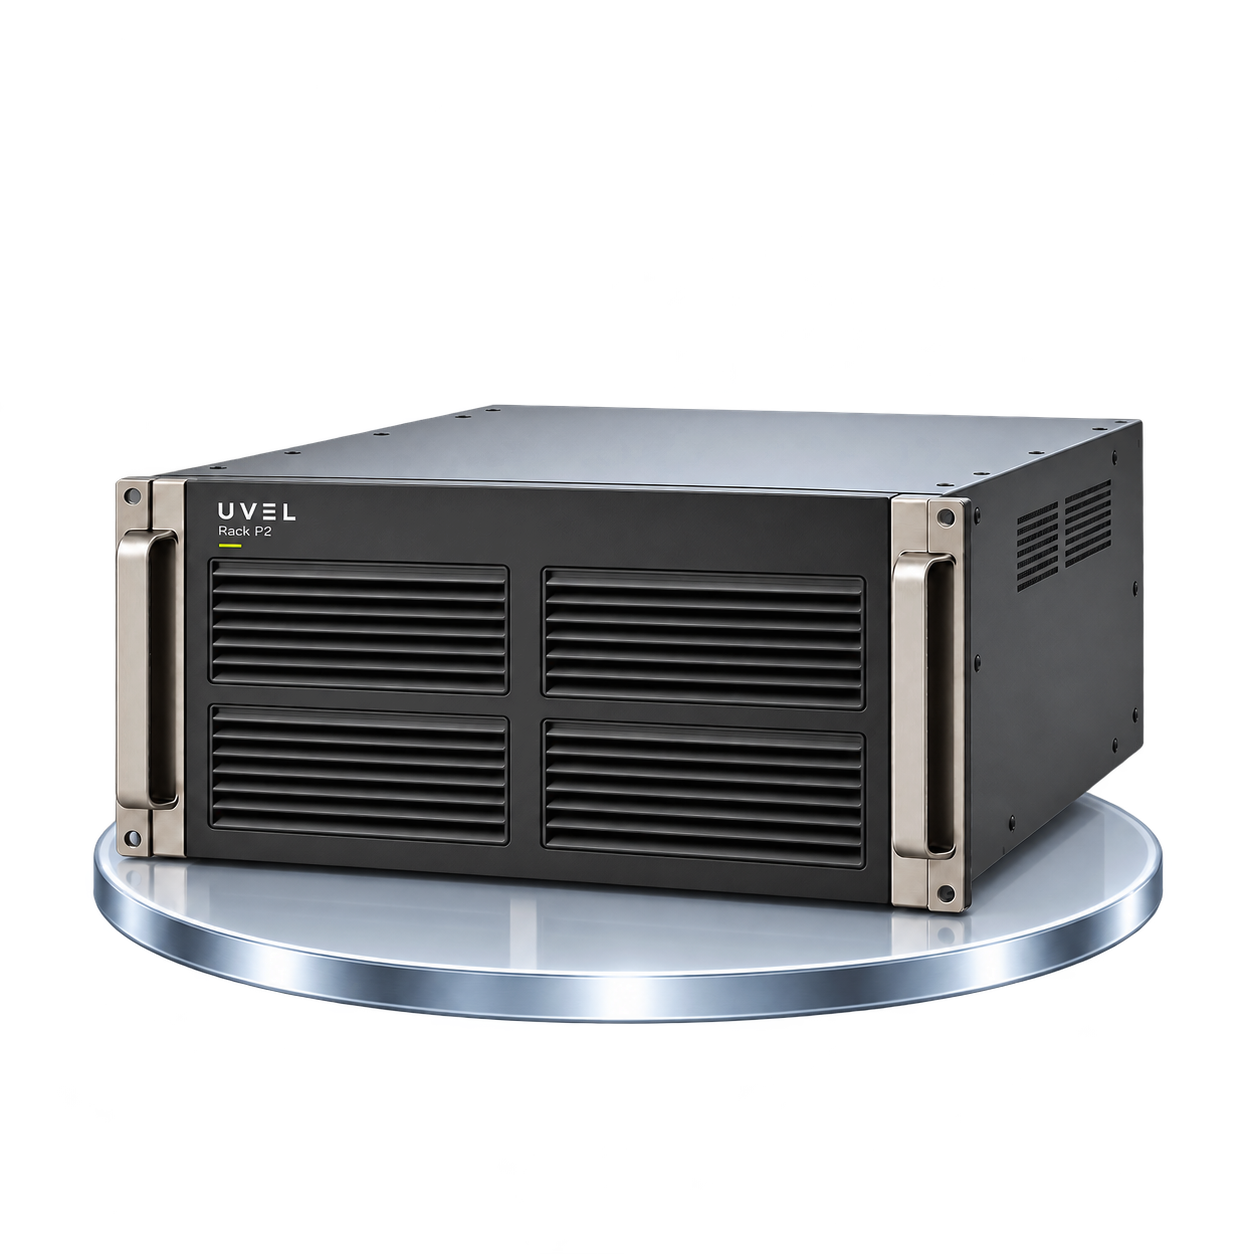
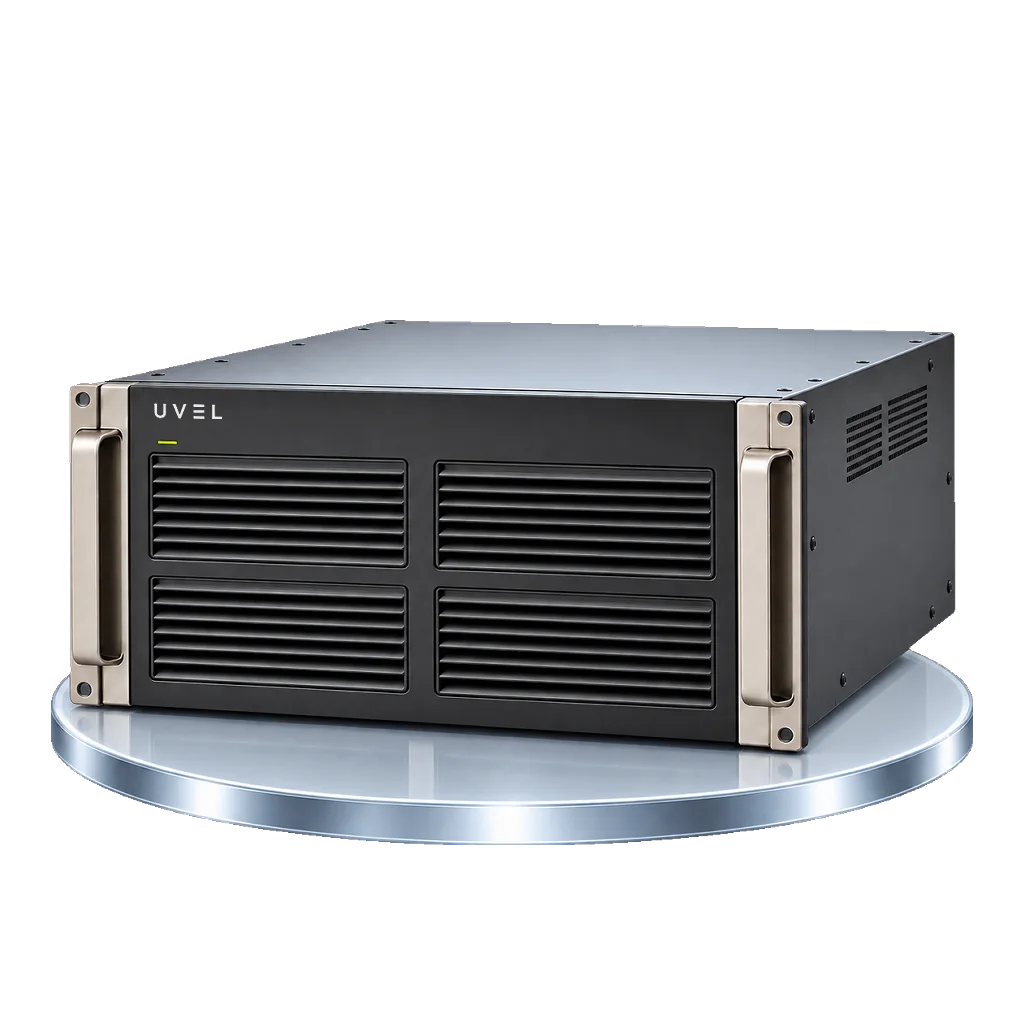
Switch the store device art to the shared-pedestal tiered set
- Six 1024px transparent WebP renders in src/static/img/products/uvel-pedestal/:
  same pedestal and camera, body size stepping up S1 < Pro < Pro v2 < P1 < P2,
  Cloud Share as a single compute module (replaces Pro v2 / P1 / P2, adds
  S1 / Pro / Cloud Share).
- Prototype and design-review fixtures use this set for every product.
- The old home-glass-20260928 s1/pro/cloud webp stay: still referenced by the
  preview server support attachment and a promotion behaviour test.
- PRD §7.1 card art rule and §7.2 wording; P-66 changelog entry extended.

H5 Lite port (conflicts resolved for Lite rules):
- Images and both fixtures applied cleanly; Lite's prototype-demo-data.mjs
  now uses /static/img/products/uvel-pedestal/<id>.webp for all six SKUs.
  home-glass-20260928 s1/pro/cloud are kept (same references as on App).
- PRD §7.2: kept Lite's list (no vs-phone strip); the App wording that came
  with this commit is dropped. §7.1 card-art rule applied as is.
- docs/前端产品更新日志.md: the art bullet goes into the Lite P-66 entry,
  which now names both source App commits.
- PRD §7.2 item 8: the Lite sticky bar also shows the hardware daily
  estimate; corrected the line written in the previous port commit.

(cherry picked from commit 9994fe889d48c5122607806975b251fbc14f61ca)

Changed region(s): [[0.0312, 0.3125, 0.9688, 0.8438]]

diff --git a/docs/前端产品更新日志.md b/docs/前端产品更新日志.md
@@ -3,7 +3,8 @@
 - 商品详情页 Hero 卡「累计已售 / 本周剩余」下方新增一行提示：「[三节点图标] 每台为团队增加 12,990 算力点」（Cloud Share 为「每份为团队增加 … 算力点」；英文 `Each unit/share adds {n} compute pts to your team`，越南语 `Mỗi máy/phần cộng {n} điểm tính toán cho nhóm`）。数字按语言千分位（越南语用「.」），统计数字字体；其余为 12px 弱化正文，无分隔线、无强调色、不可点击。只在商品详情显示，商品卡与结算页不显示；不受「隐藏数据」遮盖。越南语 320px 窄屏折成两行，不溢出。
 - 数据来自商城目录 `GET /api/store/catalog` 新增的可选字段 `computePoints`（单件计入团队的算力点，与后端 `nx_product.compute_points` 同值，非负整数）；缺失、null 或 0 时整行隐藏，类型错误按目录契约违规处理。目录仍按 Lite 范围过滤商品。依赖后端待办 B24（uvel-docs 任务 20），后端下发前正式环境不显示此行。本地预览目录按价格 ×10 下发演示值（S1 12,990 / Pro 49,990 / Pro v2 59,990 / Rack P1 129,990 / Rack P2 199,990 / Cloud Share 199）。
 - 商城「算力阶梯」由 3 档硬件扩为全部 5 档硬件，自下而上：Box S1、Box Pro、Box Pro v2、Rack P1、Rack P2，标题显示「5 档」；Lite 仍不显示手机行。各档读目录对应 SKU 的 `dailyEarn`，缺失时该行显示「—」；进度条透明度自下而上 0.35 → 0.75 逐档递增，两档 Rack 的 $/天 用品牌色；「←你」规则不变，不再为已拥有的 Pro v2 / Rack P2 额外插入一行。新增文案 `ladderProV2`「Box Pro v2」、`ladderRackP2`「Rack P2」（三语同英文）。
-- 相关提交：本提交，移植自 App 提交 1ac285b6。PRD 主文档 §7.1（算力阶梯，同时更正该节 VsPhoneHero 旧描述：Lite 商城不显示手机对比卡）、§7.2（同时按 Lite 现行页面更正「页面自上而下」列表与 Cloud Share variant 的旧描述）。
+- 商城设备图换成新套图：同一透明圆盘底座、同一机位，机身体积按档位递进（Box S1 < Box Pro < Box Pro v2 < Rack P1 < Rack P2），Cloud Share 改为单个算力模块。6 张 1024px 透明 WebP 放在 `src/static/img/products/uvel-pedestal/<SKU>.webp`（替换原有 Pro v2、Rack P1、Rack P2 三张，新增 S1、Pro、Cloud Share 三张）；本地预览与设计审查夹具的 6 个商品都改用这一套。页面只显示目录下发的 `imageUrl`，正式环境商品图由运营在 PC 后台上传，需换成这一套。`home-glass-20260928` 下旧的 s1 / pro / cloud 图仍有引用，保留。
+- 相关提交：移植自 App 提交 1ac285b6（算力点与阶梯）和 9994fe88（设备图），在 Lite 上为两个对应提交。PRD 主文档 §7.1（算力阶梯，同时更正该节 VsPhoneHero 旧描述：Lite 商城不显示手机对比卡；商品卡主图套图规则，同时更正旧的「datacenter 风 4U 服务器」描述）、§7.2（同时按 Lite 现行页面更正「页面自上而下」列表与 Cloud Share variant 的旧描述）。
 
 ## 2026-11-03 H5 Lite 外部付款明细的商品金额按两位显示（BUG-085，移植自 App）
 

diff --git a/PRD/NexGrid_产品功能架构设计文档_v3.7.md b/PRD/NexGrid_产品功能架构设计文档_v3.7.md
@@ -1380,7 +1380,7 @@ flowchart TD
 > **商品卡不展示回本天数 / 年化 / 首年净利**——避免在卡片层引导用户自行算年化(数字可信不自曝,§13.1)。回本 / 年化 / 首年净利等 ROI 派生值仅在商品详情页(§7.2)与结账页展示。
 
 **卡片元素**:
-- 产品渲染图(datacenter 风,4U 服务器内部 4 张 NVIDIA-style 显卡可见)+ Best Seller / Trending badge + 库存告警(<50 时显示 `NN LEFT`)
+- 商品主图(目录 `imageUrl`)+ Best Seller / Trending badge + 库存告警(<50 时显示 `NN LEFT`)。主图套图(2026-11-03 P-66)统一为同一透明圆盘底座、同一机位,机身体积按档位递进:Box S1 < Box Pro < Box Pro v2 < Rack P1 < Rack P2;Cloud Share 为单个算力模块。
 - 标题 + 副标 + GPU · VRAM 规格小行
 - 上述 4 行 ROI hero metric
 - 评分行(⭐ X.X · N reviews · N sold)
@@ -1410,7 +1410,7 @@ flowchart TD
 5. **硬件规格** / **AI 性能**:见本节开头「硬件规格、AI 性能与相关资料」。
 6. **信任资料**:合作方与本商品相关资料。
 7. **FAQ**。
-8. **底部固定购买栏**:价格、数量步进和「立即购买」;资格与配额状态见上方「当前资格交互」。
+8. **底部固定购买栏**:价格、预估每日收益(硬件)、数量步进和「立即购买」;资格与配额状态见上方「当前资格交互」。
 
 Cloud Share variant:Cloud Share 是数字份额(`productType=SHARE`,`inventoryMode=UNLIMITED`,不占实物库存)。详情页不显示预估收益两格,改为「预估每日收益」卡:USDT 日收益按当前价格、所选份数与目录参考年奖励率区间(`shareYieldMin`–`shareYieldMax`)折算成区间,另列 UVT 日收益和「参考年奖励率」,附「以实际到账为准」说明;不显示本周剩余。走立即购买流程。
 
